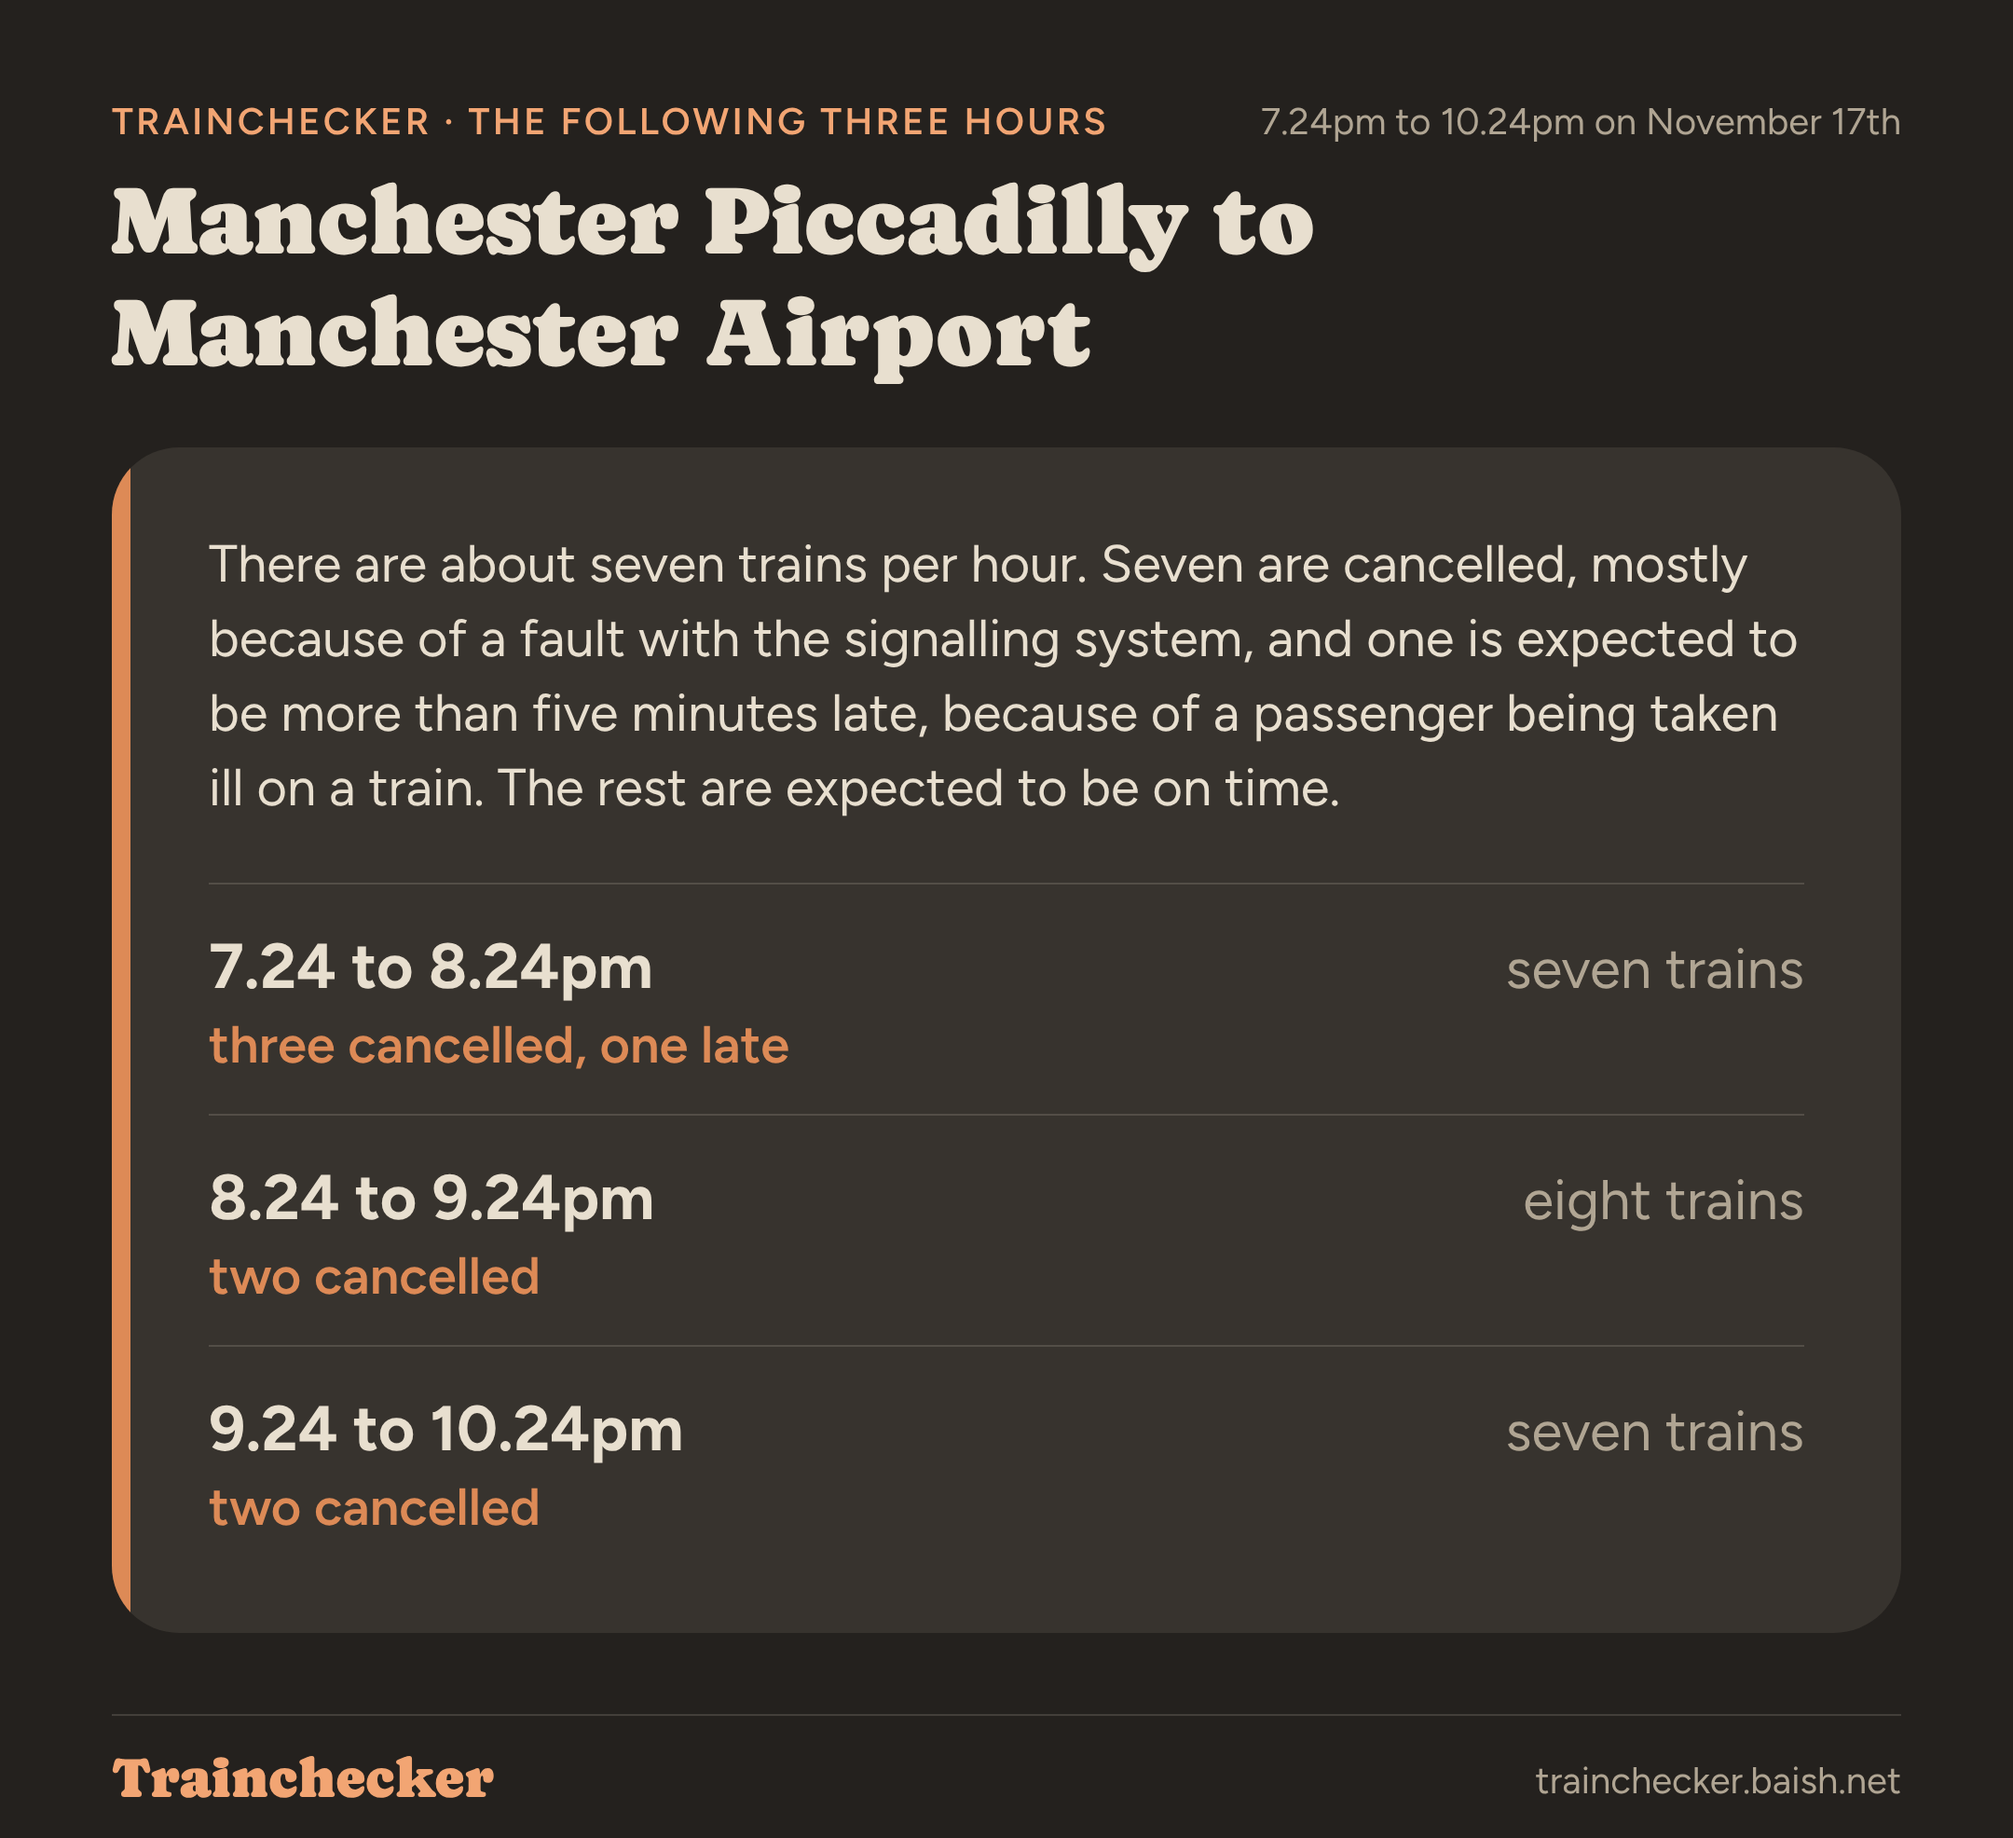
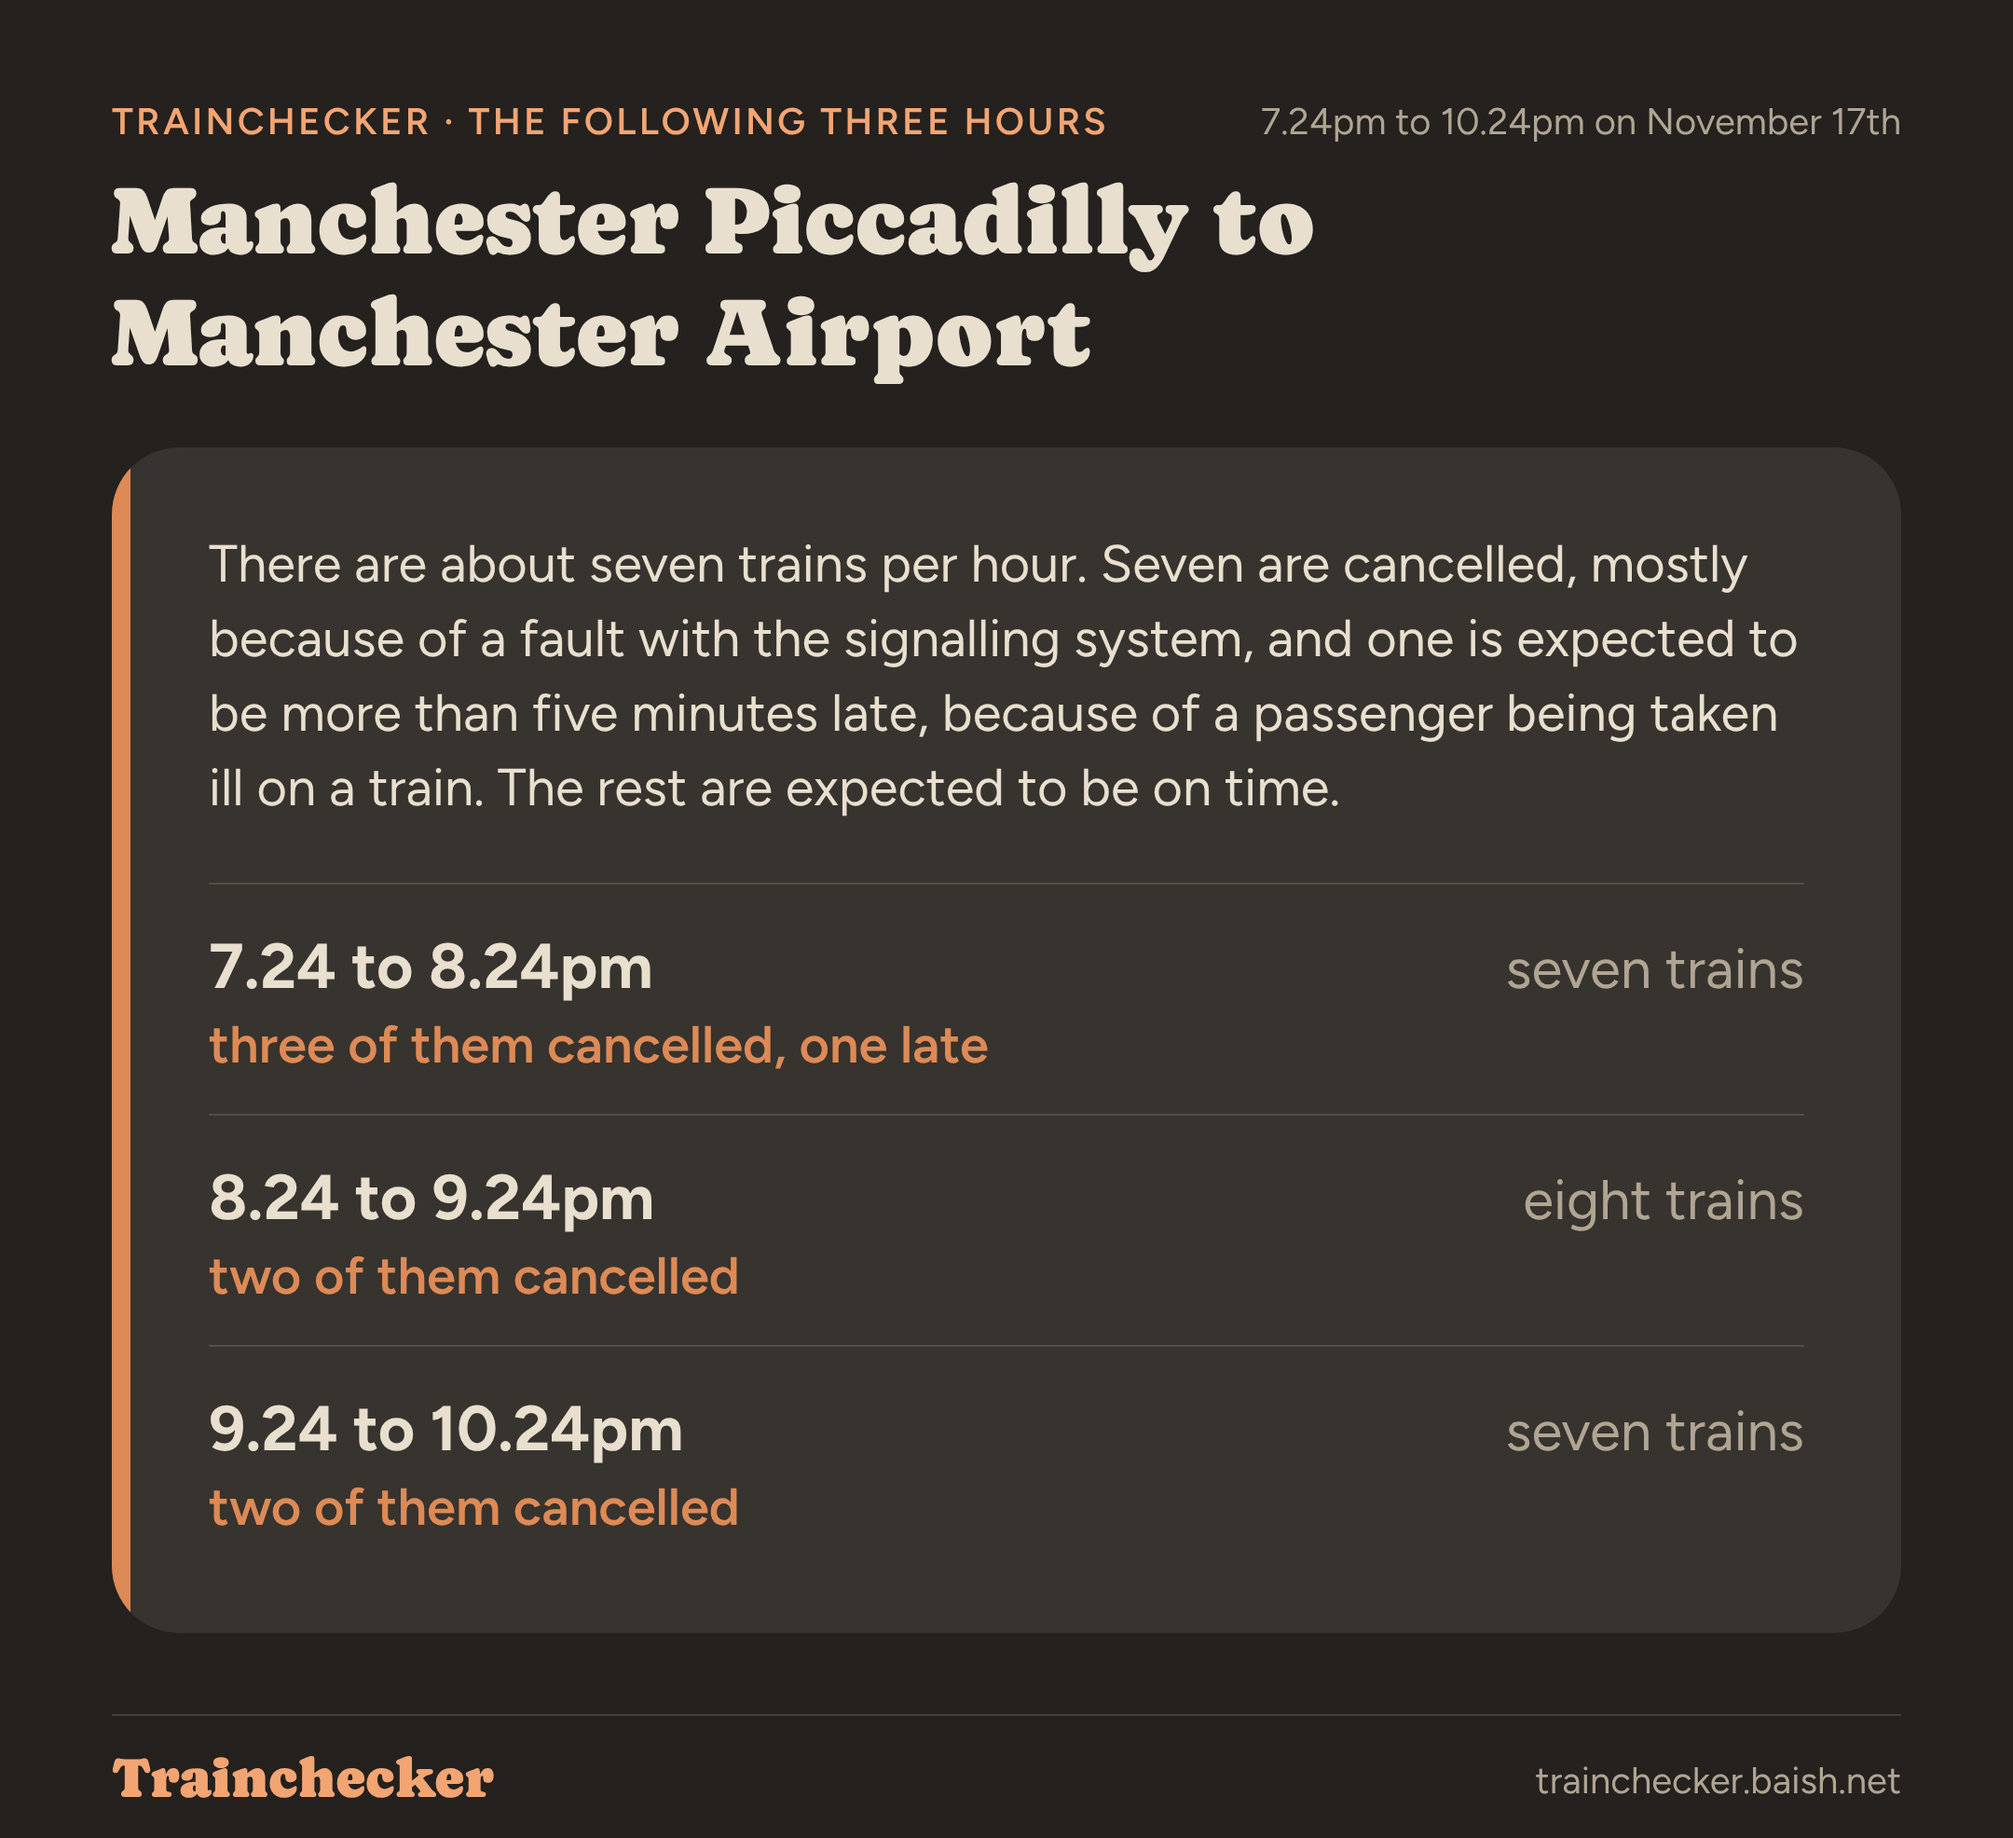
Share mock-ups: "of them" in the hour-by-hour picture; the trains themselves when the first panel is stretched
Claude-Session: https://claude.ai/code/session_01BsvHLH7nmuoQ4vvwafY9bf

Changed region(s): [[0.1861, 0.5568, 0.4963, 0.5877], [0.1551, 0.8043, 0.3722, 0.8352], [0.1551, 0.6805, 0.3722, 0.7115]]

diff --git a/src/lib/windows.ts b/src/lib/windows.ts
@@ -172,6 +172,8 @@ export function laterShare(a: Analysis, kind: LaterShareKind, s = split(a)): Lis
       : `The trains from ${a.from} to ${a.to} ${period}${s.stretched ? ',' : ''} were all expected to be on time, according to Trainchecker.`
     return { ...base, heads: ['DUE TO LEAVE', ''], rows, before: lp.lines.join(' '), words: words(text, a) }
   }
+  // Stretched: few later trains, so the trains themselves rather than hours (John, November 24th 2026, (b)).
+  if (s.stretched) return laterShare(a, 'A', s)
   // C: hour by hour (John: no platforms said, a time range rather than "FROM").
   const start = s.stretched ? s.cut : 60
   const rows: PicRow[] = []
@@ -184,7 +186,9 @@ export function laterShare(a: Analysis, kind: LaterShareKind, s = split(a)): Lis
     const to = Math.min(from + 60, 240)
     const ts = l.ahead.filter((t) => { const m = leaves(a, t); return m > from && m <= to })
     const c = ts.filter((t) => t.cancelled).length, late = ts.filter((t) => l.late5.includes(t) || l.arrLate.includes(t) || t.unknown).length
-    const bad = [c ? `${num(c)} cancelled` : '', late ? `${num(late)} late` : ''].filter(Boolean).join(', ')
+    // "of them", so it's plain these are among the trains counted on the right (John, November 24th 2026).
+    const bits = [c ? `${num(c)} cancelled` : '', late ? `${num(late)} late` : ''].filter(Boolean)
+    const bad = !bits.length ? '' : ts.length === 1 ? (c ? 'cancelled' : 'running late') : `${bits[0].replace(/^(\w+) /, '$1 of them ')}${bits[1] ? `, ${bits[1]}` : ''}`
     rows.push({ time: range(from, to), mid: ts.length ? `${num(ts.length)} ${trainsWord(ts.length)}` : 'no trains', late: bad })
   }
   const text = s.stretched ? `The later trains from ${a.from} to ${a.to} hour by hour, ${when}, from Trainchecker.` : `The trains from ${a.from} to ${a.to} hour by hour from ${when}, from Trainchecker.`

diff --git a/CLAUDE.md b/CLAUDE.md
@@ -88,6 +88,10 @@ given its own branch). Before committing there, run
   "seven trains" on the right, and under them in orange "three cancelled, one late"; an hour with none, "no trains".
   Checks unchanged; `tsc -b`, lint, build; Manchester, Reading to Paddington, Kings Cross to York (stretched) and
   Euston to Milton Keynes read back from the clipboard, fonts loaded, no errors.
+- **John:** (b): when the first panel is stretched, the later picture lists the few later trains (as A) instead of
+  hours; and the orange line didn't say whether its trains were among the count on the right: now "three of them
+  cancelled, one late" ("cancelled" or "running late" for a single train). Checks unchanged; `tsc -b`, lint, build;
+  pictures read back as before.
 
 ### November 24th 2026: "The next hour" first, then the rest; live (branch `claude/ecstatic-dijkstra-w0herd`, merged the same day; Claude Code)
 
